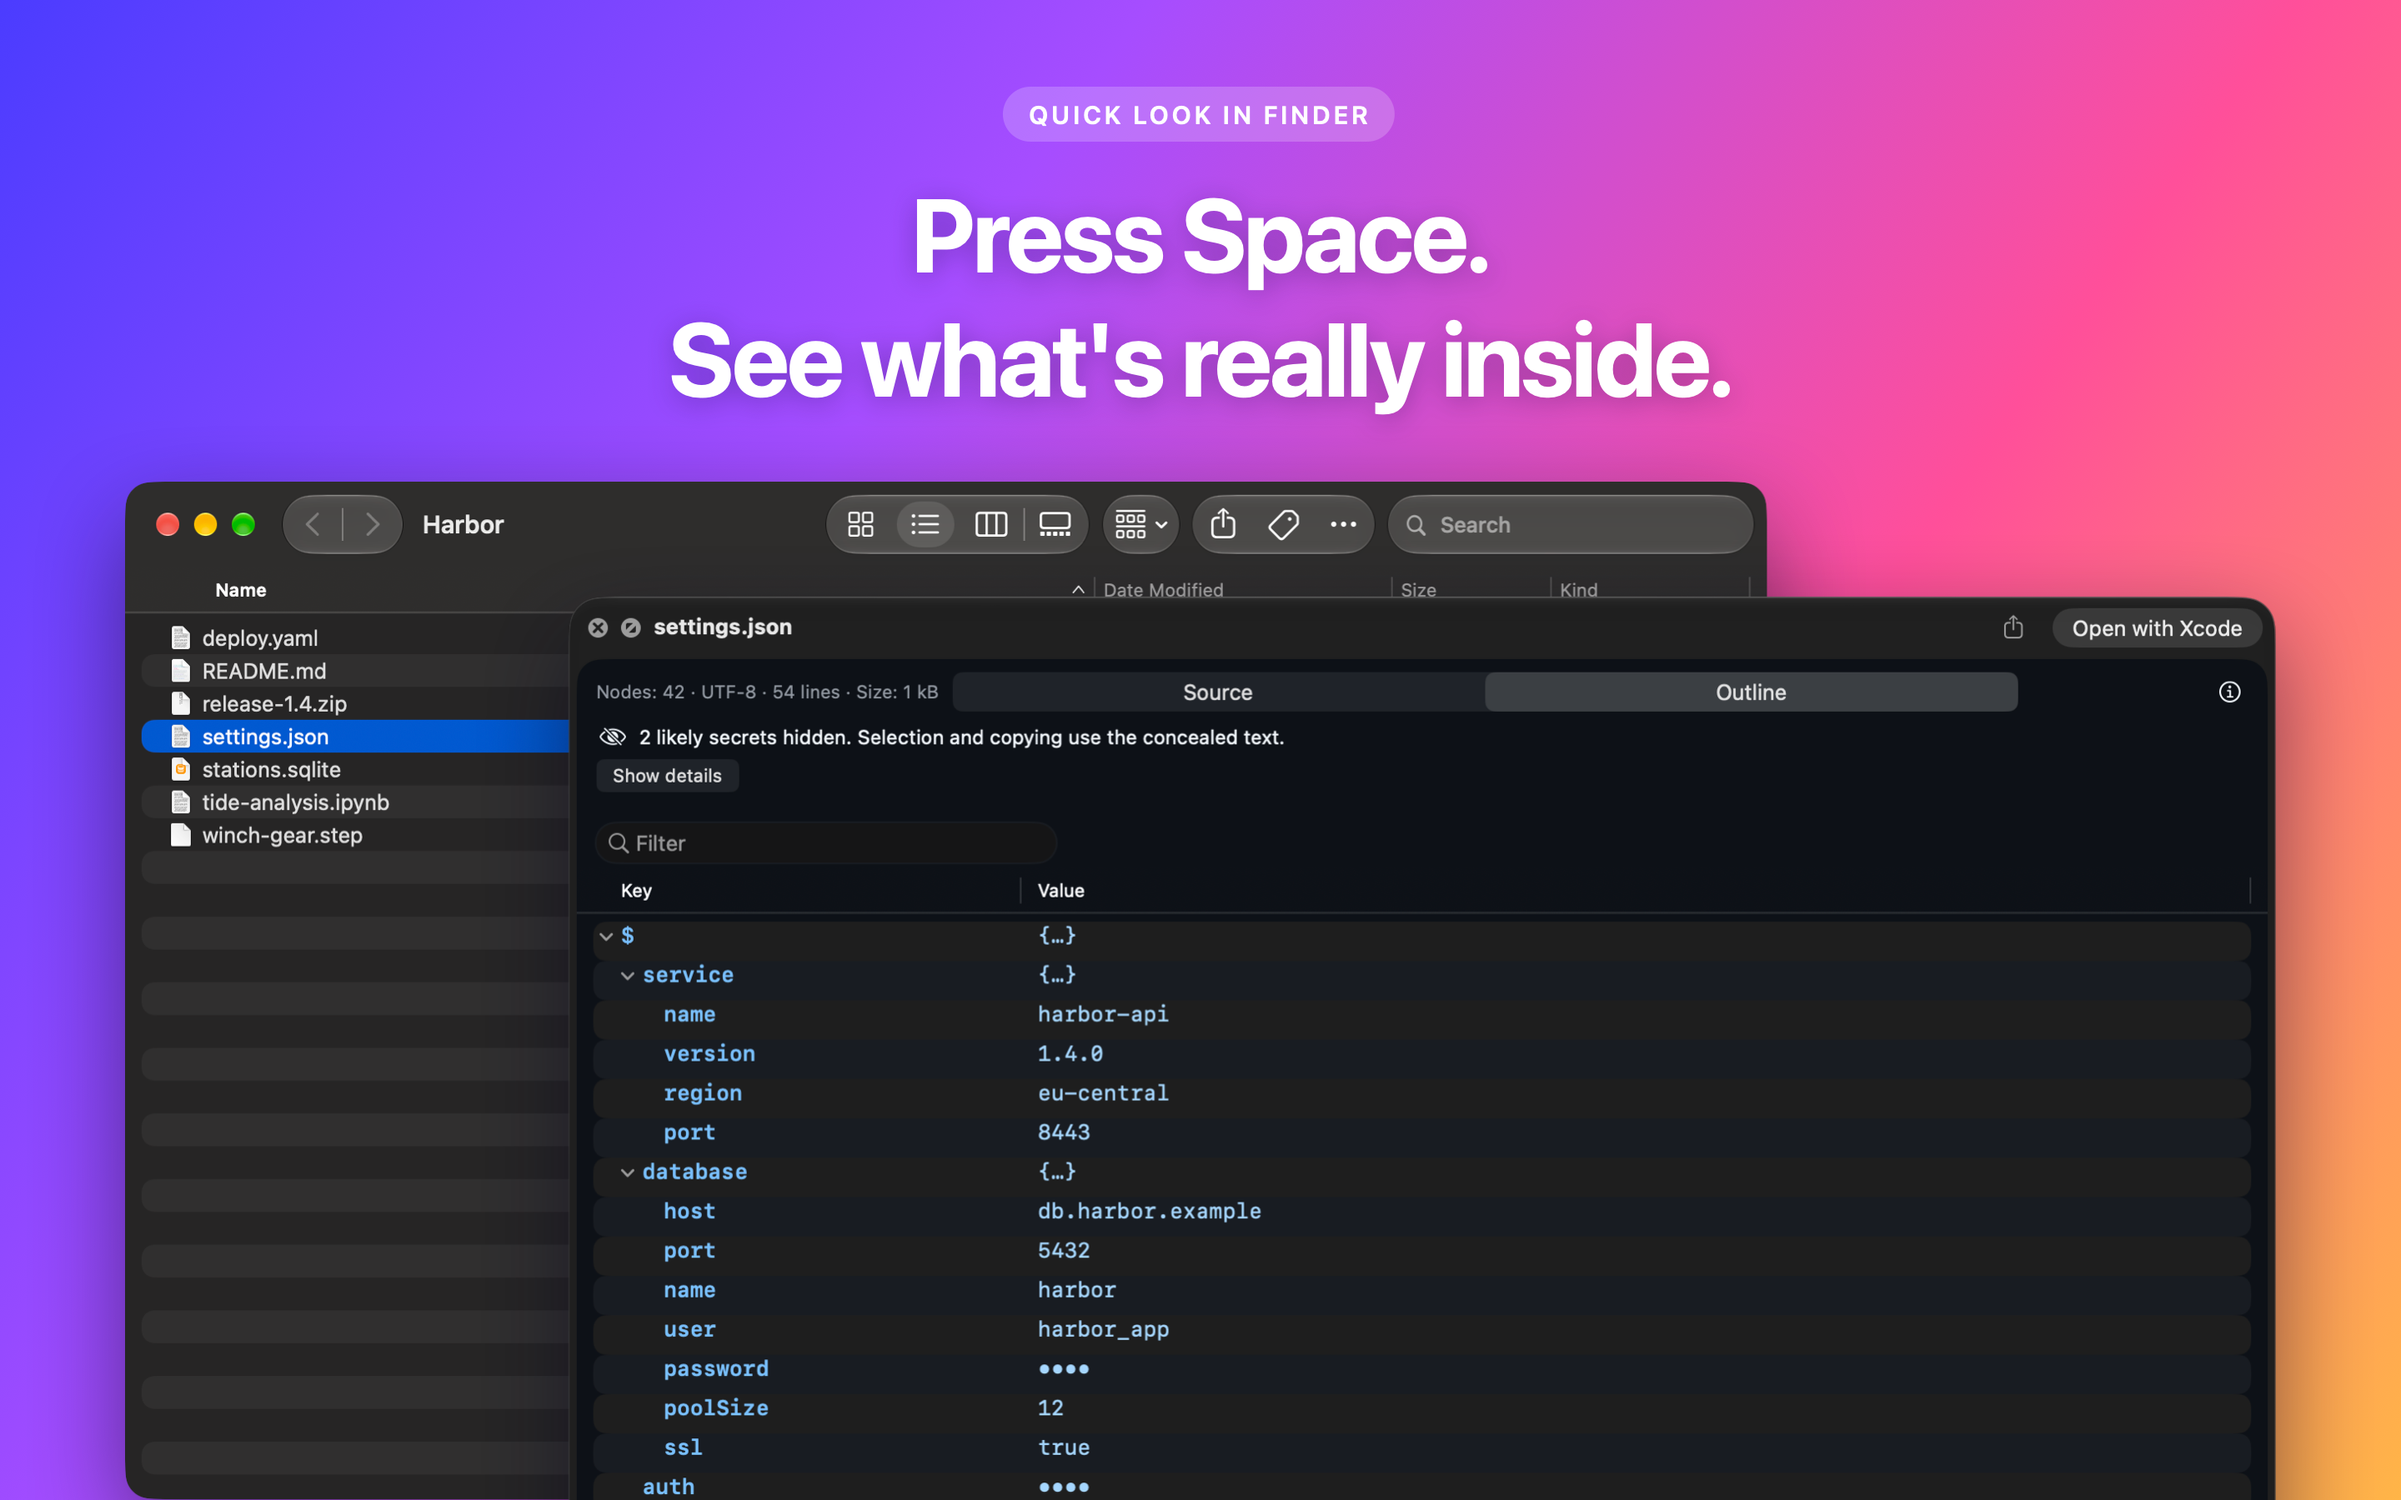
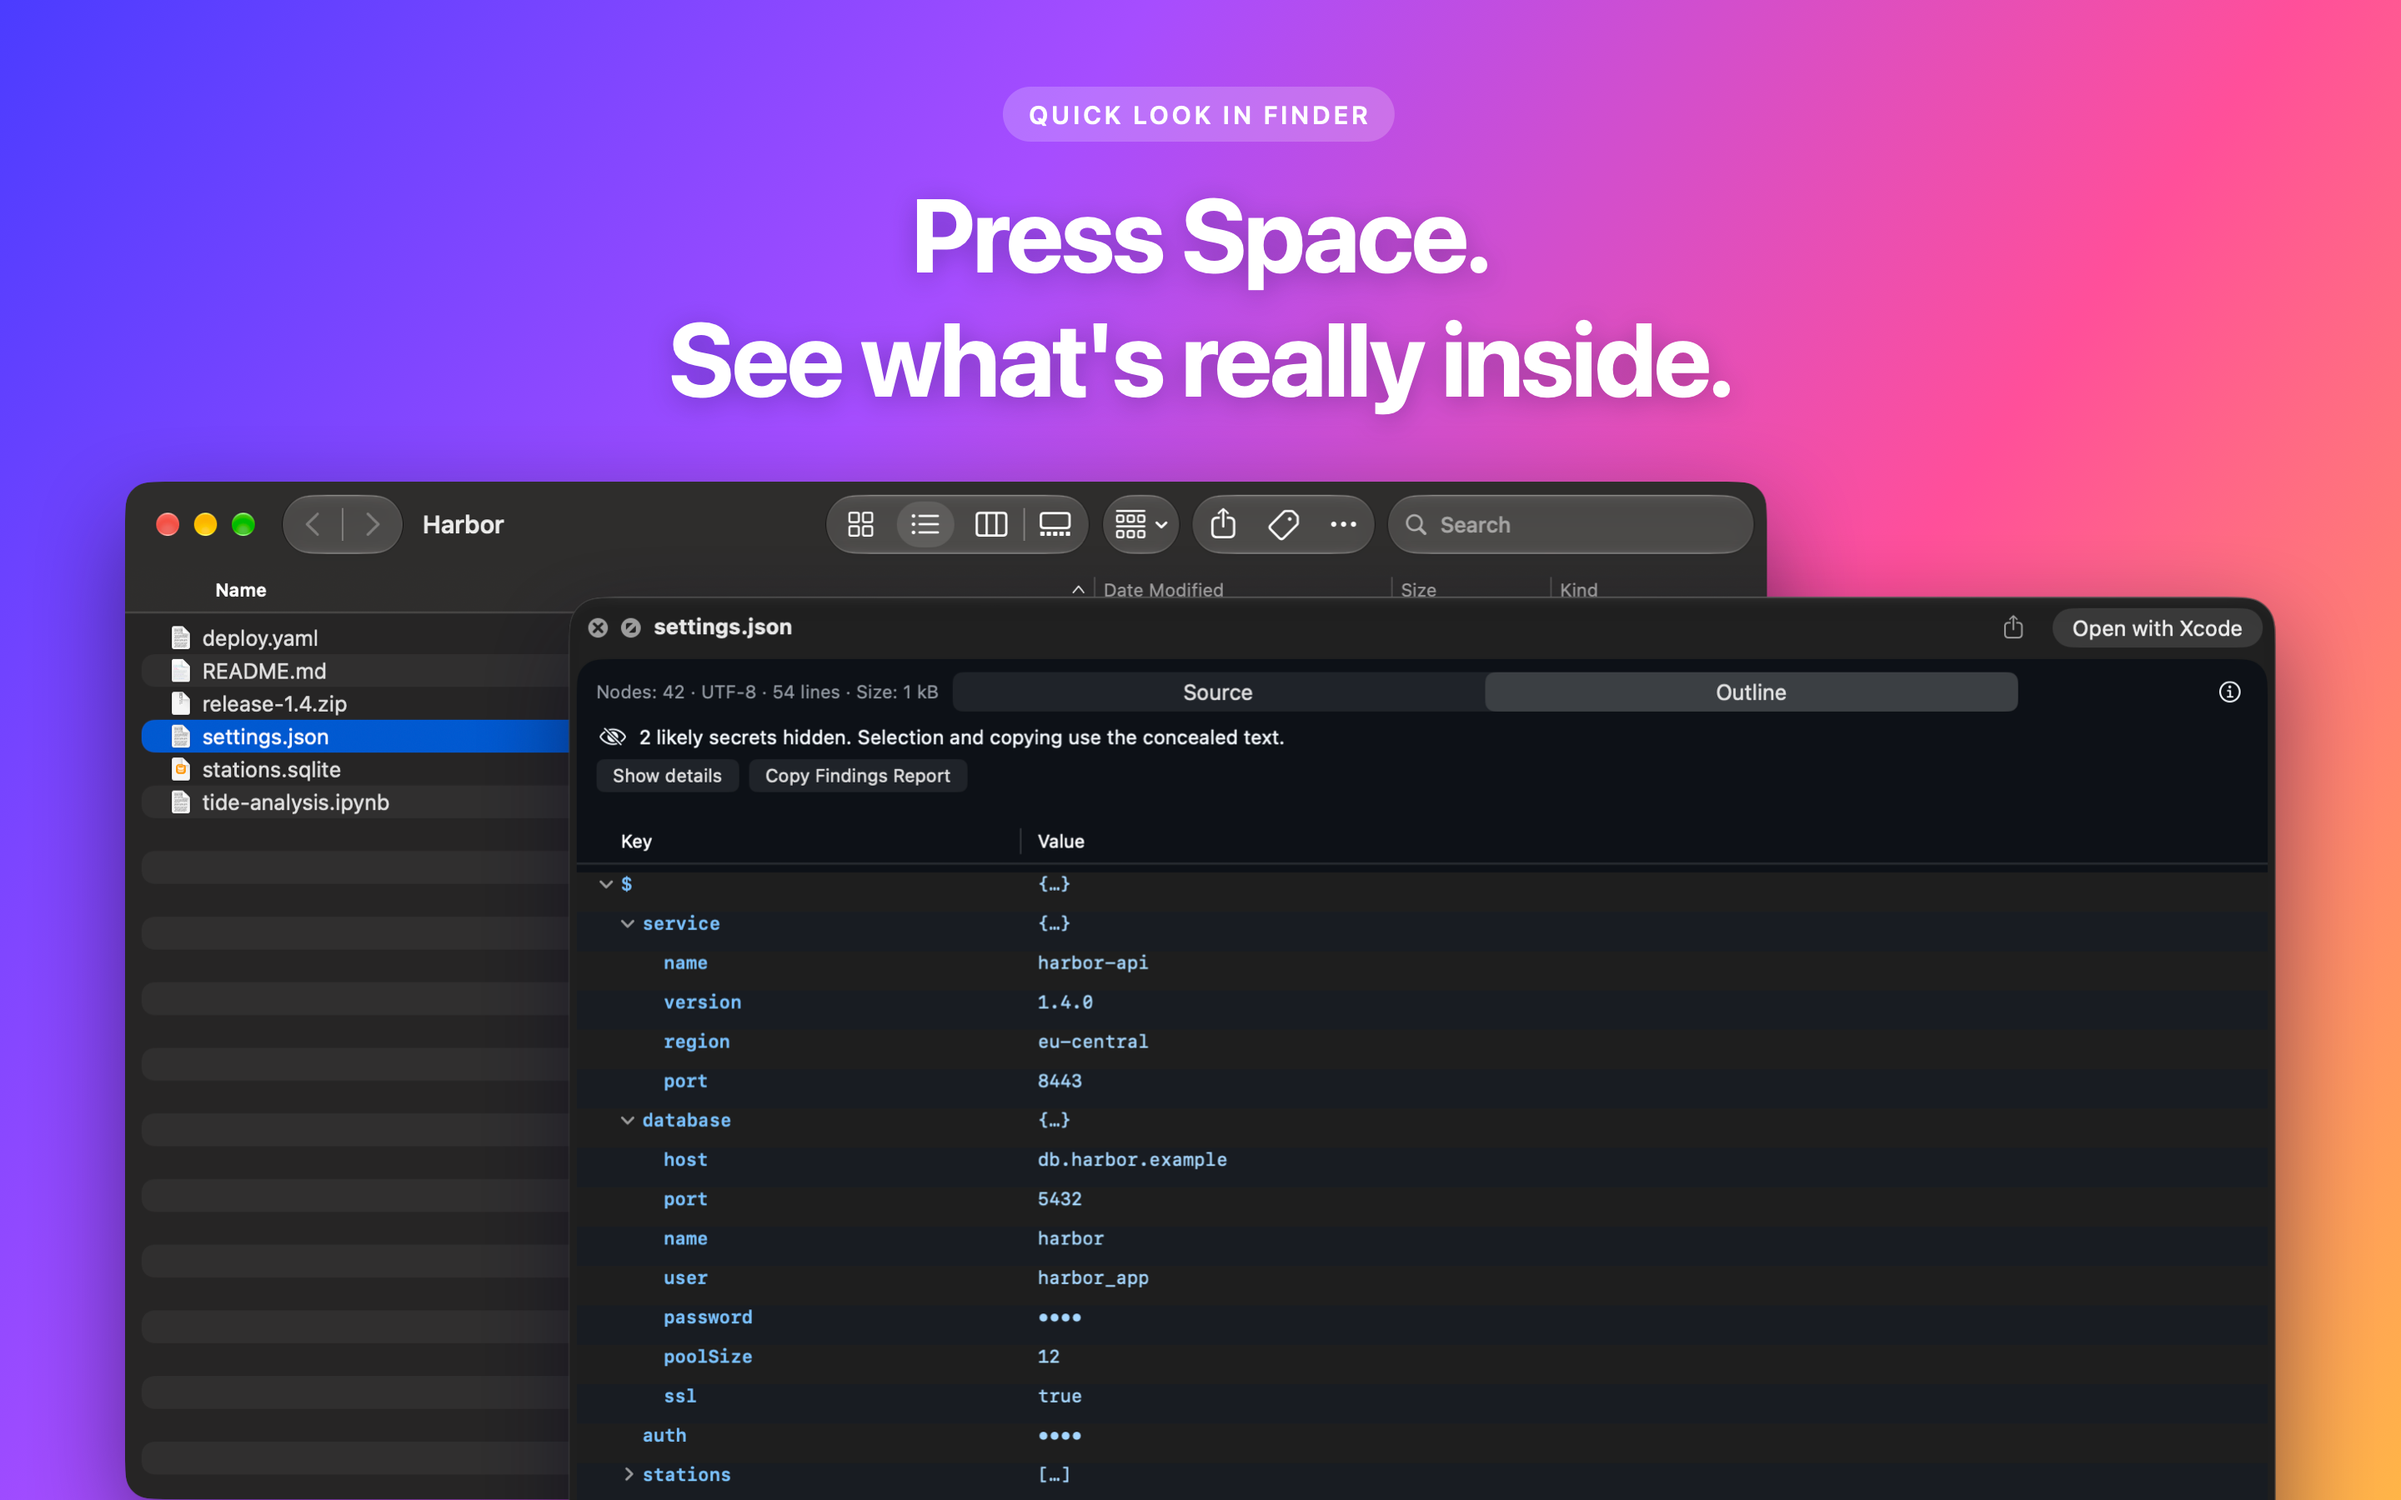
Retake the hero store screenshot from build 5 and record the integration branch

diff --git a/docs/release/store-listing/screenshots.md b/docs/release/store-listing/screenshots.md
@@ -6,7 +6,7 @@ build and have not been uploaded. A second set in the website's dark style with 
 another session under `.build/store-screenshots/website-theater/`; it was not chosen.
 **Amended 2026-10-13 ([decision 028](../../decisions/028-no-cad-in-version-1.md)): version 1.0 ships without STEP and IGES.** The made image `07-models.png` shows a STEP model and says STEP and IGES are off until switched on, so it cannot be used; it is retaken with a mesh model (for example the generated STL) and without that line. `08-file-types.png` reads "76 of 76 enabled" (observed in the image on 2026-10-13) and the build 3 catalog has 74 types, so it is retaken from build 3. The listing's screenshot plan carries the same open item. The two app preview videos under `app-preview/` were not inspected on 2026-10-13; check them for a STEP or IGES scene and for a type count before use. Everything below is history of what was made and planned on 2026-10-10 and 2026-10-11 unless marked.
 
-**Amended 2026-10-17 ([rejection-risk review](../../reviews/2026-10-17-app-store-rejection-risk.md), finding 5).** Six screenshots are live in App Store Connect for 1.1.0 (build 5), submitted that day. Two of them show what build 5 no longer has: the hero screenshot (first in the store order, from `01-press-space.png`) shows a Filter field in the Outline view and `winch-gear.step` in Finder's file list, and the SQLite screenshot (third in the store order, from `04-database.png`) shows a Filter field. Build 5 ships no typed filter in Finder previews (PR 9, merged 2026-10-15) and no STEP support. Both must be recaptured from the owner's signed build 5 before the next submission, with no Filter field and no CAD file visible in Finder; replacing screenshots needs the version out of review. Nothing was recaptured on 2026-10-17: a recapture needs the signed build, which only the owner has. The Theme screenshot shows 13 tiles (Standard appears in both the light and dark lists) against "12 color schemes"; twelve distinct schemes exist, so a caption or recapture avoids the question but none is required.
+**Amended 2026-10-17 ([rejection-risk review](../../reviews/2026-10-17-app-store-rejection-risk.md), finding 5).** Six screenshots are live in App Store Connect for 1.1.0 (build 5), submitted that day. Two of them show what build 5 no longer has: the hero screenshot (first in the store order, from `01-press-space.png`) shows a Filter field in the Outline view and `winch-gear.step` in Finder's file list, and the SQLite screenshot (third in the store order, from `04-database.png`) shows a Filter field. Build 5 ships no typed filter in Finder previews (PR 9, merged 2026-10-15) and no STEP support. Both must be recaptured from the owner's signed build 5 before the next submission, with no Filter field and no CAD file visible in Finder; replacing screenshots needs the version out of review. The hero screenshot was recaptured at 18:09 on 2026-10-17 from the installed TestFlight-signed build 5 (`/Applications/SpacePane.app`, 1.1.0 (5)) on a Retina display mode, with the same scripts (`capture.sh` reduced to scene 1, then `compose_store_screenshot.swift`); the demo folder was generated without `winch-gear.step`, and `settings.json` carries the same per-file Xcode binding as the notebook and the database so the panel button reads "Open with Xcode". The new `01-press-space.png` (2880×1800, no alpha) shows the Outline view with no Filter field and a Finder list without a CAD file; it replaces the previous file here and is the one to upload. The SQLite screenshot is not recaptured: on this Mac `.sqlite` resolves to a dynamic type until a build with the corrected declarations is installed ([uti-resolution-2026-10-17](../../validation/uti-resolution-2026-10-17.md)), so the owner drops the third store screenshot for now and retakes `04-database.png` from an installed build 6. The Theme screenshot shows 13 tiles (Standard appears in both the light and dark lists) against "12 color schemes"; twelve distinct schemes exist, so a caption or recapture avoids the question but none is required.
 
 The sections under "Earlier plan" were written on 2026-10-10 and are kept for their rules; where they differ
 from the next section, the next section is what was done.

diff --git a/CHANGELOGS.md b/CHANGELOGS.md
@@ -16,6 +16,13 @@ Request from the lead session: fix the companion findings of [the review](docs/r
 - Checks: `./script/build_and_run.sh --check-static` OK (23 passed, 1 skipped: tree-sitter not installed); `python3 tools/validate_localization.py` OK; `./script/build_and_run.sh --test` OK (package tests; companion model checks: 8 settings, 12 undo, 9 presentation, 6 layout, 8 error-state, 11 model); `swift test --package-path Packages/PreviewCore --filter 'Shortcut|Interaction|Copy|Localization'` 176 tests pass; `./script/build_and_run.sh --check-compiler` typechecks the app and both extensions. Each new check was first run against a stub or the old strings and failed for the intended reason.
 - Not done: the signed Xcode build, the Command-Q path in a running app, the banner caption on screen, translated layout and VoiceOver. These stay unobserved; `docs/validation/pending-mac-verification.md` is for edits made without a compiler and was not changed.
 
+## 2026-10-17 — Build 6 integration branch and the recaptured hero screenshot
+
+Lead session: the three fix branches of the day (`build6-release-fixes-2026-10-17`, `app-store-risk-bundle-pruning-2026-10-17`, `companion-ux-fixes-2026-10-17`) merged into `build6-integration-2026-10-17`; the only conflicts were this file's top entries, kept in full.
+
+- Screenshot: `docs/release/store-listing/screenshots/01-press-space.png` retaken from the installed TestFlight-signed build 5 at Retina scale (Finder window 2000×1240, panel 2080×1440 captures; 2880×1800 opaque composite). No Filter field, no `.step` file, "Open with Xcode". The SQLite screenshot stays out of the store set until an installed build 6 routes `.sqlite` (see the validation record of the same day). Details in [screenshots.md](docs/release/store-listing/screenshots.md).
+- Validation: the gates named in the pull request were run on the merged tree; see the pull request description for the results.
+
 ## 2026-10-17 — Draft languages pruned from the nested resource bundle; privacy-manifest reasons tied to code (findings 16 and 21)
 
 Request from the lead session: fix findings 16 and 21 of [the rejection-risk review](docs/reviews/2026-10-17-app-store-rejection-risk.md). Record: [nested-language-pruning-2026-10-17.md](docs/validation/nested-language-pruning-2026-10-17.md).
